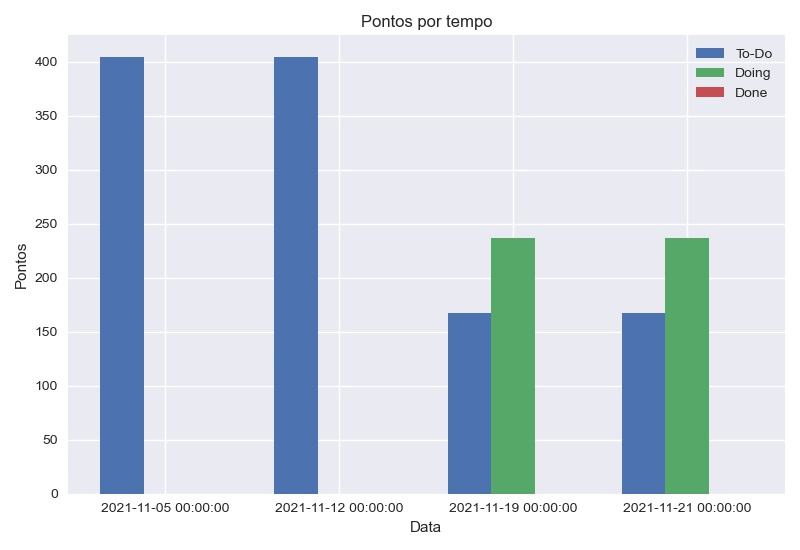
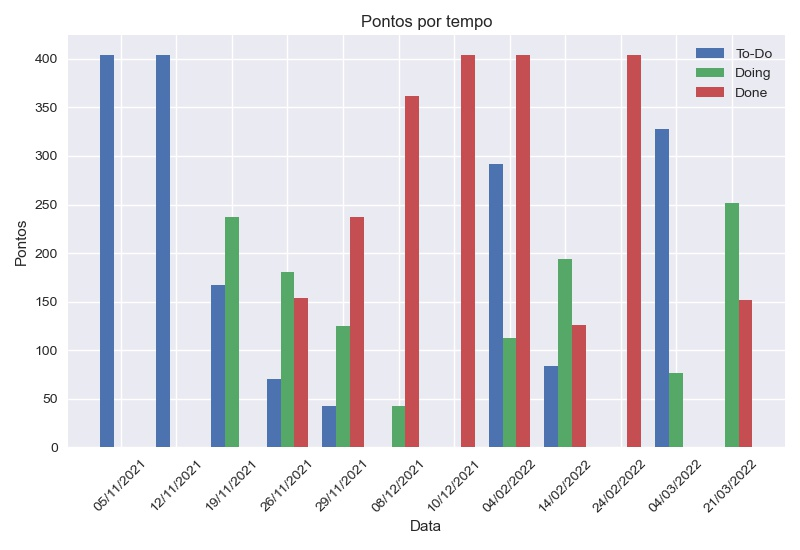
few changes

diff --git a/main.py b/main.py
@@ -4,6 +4,7 @@ from selenium import webdriver
 from selenium.webdriver.firefox.options import Options
 from datetime import datetime
 from matplotlib import pyplot as plt
+from matplotlib import lines as lns
 import keys
 from imageToTrello import fileToCard
 
@@ -82,7 +83,8 @@ if not mes:
     mes = str(input("mes: "))
 if not ano:
     ano = str(input("ano: "))
-diaAtual = datetime(int(ano), int(mes), int(dia)) 
+    
+diaAtual = datetime(int(ano), int(mes), int(dia)).strftime('%d/%m/%Y') 
 
 data["To-Do"].append(f"{somas[0]}")
 data["Doing"].append(f"{somas[1]}")
@@ -113,12 +115,14 @@ for value in data['Done']:
 plt.bar(xAxis, toDoValues, w, label="To-Do")
 plt.bar(xAxis+w, doingValues, w, label="Doing")
 plt.bar(xAxis+w*2, doneValues, w, label="Done")
+lns.Line2D(xAxis+w*2, doneValues, linewidth=0.75, label="Done")
+
 
 plt.xlabel("Data")
 plt.ylabel("Pontos")
 plt.title("Pontos por tempo")
 
-plt.xticks(xAxis+w, data['Dates'])
+plt.xticks(xAxis+w, data['Dates'], rotation=45)
 plt.tight_layout()
 plt.legend()
 plt.savefig('./images/graph.jpg')
